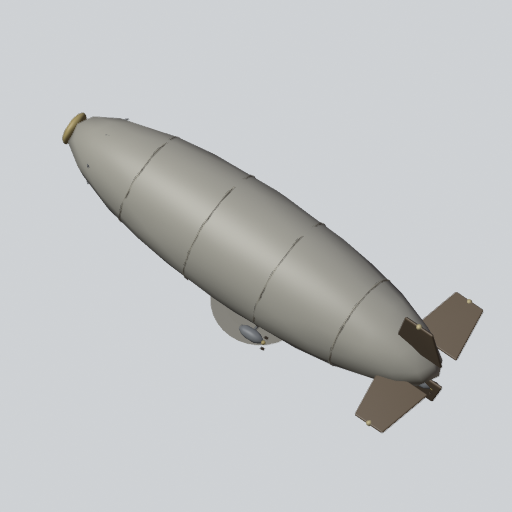
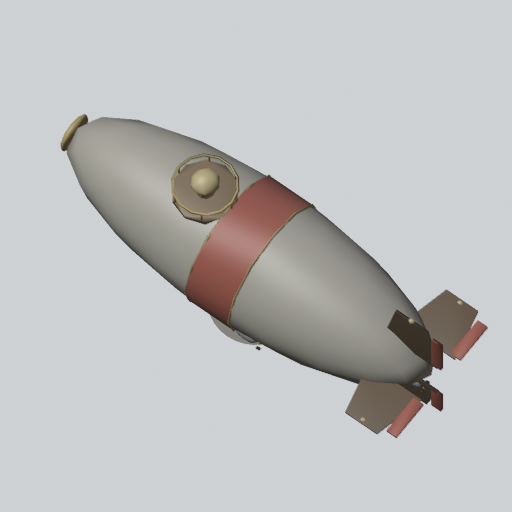
art: Spotter Blimp airborne (BLIMP_AIR) bolder upgrades - S1 fatter envelope, wide fins with striped rudders, painted band; S2 fatter still, second gondola, brass-railed lookout with a glowing beacon (#443)

diff --git a/tools/art/models/tower/_blimp_air.py b/tools/art/models/tower/_blimp_air.py
@@ -11,15 +11,19 @@ with the envelope's centre at y = YC, so Kit.finish's lowering puts the art orig
 Stage 0 (tiers 0-2): the envelope with seam bands and a nose cap, four fins, the gondola
                      (windows, struts), two engine pods with propellers, the door gun (the
                      muzzle) and the searchlight (piece `lamp`, ArtRole `lamp`).
-Stage 1 (tier 3):    an observation turret on the gondola roof, armour plates on the gondola,
-                     a radio aerial, sandbags on the gondola rail, a third engine at the tail.
-Stage 2 (tier 5):    brass nose cap, rail and propeller hubs, glowing gondola windows and
-                     glowing running lights on the fin tips.
+Stage 1 (tier 3):    a BIGGER ENVELOPE - fatter, with wider fins carrying striped rudders, a
+                     painted band round its middle, an observation turret on the gondola roof,
+                     armour plates, a third engine at the tail.
+Stage 2 (tier 5):    fatter still, with a SECOND GONDOLA aft (windows, struts), a brass-railed
+                     lookout on the envelope's back crowned by a glowing beacon, brass nose cap,
+                     bands and hubs, glowing windows and running lights on the fin tips.
 """
 
 import importlib.util
 import math
 from pathlib import Path
+
+import bmesh
 
 _spec = importlib.util.spec_from_file_location("_kit", Path(__file__).with_name("_kit.py"))
 K = importlib.util.module_from_spec(_spec)
@@ -37,6 +41,17 @@ LAMP = (255, 245, 200)
 GLOW = (255, 214, 120)
 
 
+def band(x0, x1, r, segments=20):
+    """An open painted tube round the envelope from x0 to x1 (no end caps, so it shades as one
+    smooth band), authored at the envelope's centre line."""
+    bm = bmesh.new()
+    bmesh.ops.create_cone(bm, cap_ends=False, segments=segments, radius1=r, radius2=r, depth=x1 - x0)
+    for v in bm.verts:  # create_cone runs along Z: lay it along X
+        v.co = (v.co.z + (x0 + x1) / 2, v.co.y + YC, v.co.x)
+    bmesh.ops.recalc_face_normals(bm, faces=bm.faces)
+    return K._obj(bm, "band")
+
+
 def p(x, y, z):
     return (x, YC + y, z)
 
@@ -44,15 +59,24 @@ def p(x, y, z):
 def build(lp, stage):
     k = K.Kit(lp)
     hot = stage >= 2
+    lean = stage >= 1
+    R = (2.5, 2.8, 3.0)[stage]  # the envelope's radius: the upgrades grow it
 
     # the envelope: one long ellipsoid, nose +X; seam bands round it; a nose cap
-    k.add("body", K.ell(p(0.25, 0, 0), (9.2, 2.5, 2.5), 24, 12, rot=(0, 0, 0)))
+    k.add("body", K.ell(p(0.25, 0, 0), (9.2, R, R), 20 if lean else 24, 10 if lean else 12, rot=(0, 0, 0)))
+
+    def env_r(x):
+        return R * math.sqrt(max(0.0, 1 - ((x - 0.25) / 9.2) ** 2)) + 0.01
     seams = []
-    for x in (-5.0, -1.5, 2.0, 5.5):
-        r = 2.5 * math.sqrt(max(0.0, 1 - ((x - 0.25) / 9.2) ** 2)) + 0.01
-        seams.append(K.ring_along(p(x, 0, 0), p(x + 1, 0, 0), r, 0.05, 18, 3))
-    k.add("seam", *seams)
-    k.add("brass" if hot else "steel", K.ell(p(9.3, 0, 0), (0.25, 0.75, 0.75), 10, 6), piece="nosecap")
+    for x in ((-5.0, -1.5, 2.0, 5.5) if not lean else (-5.0, 5.5) if not hot else ()):
+        seams.append(K.ring_along(p(x, 0, 0), p(x + 1, 0, 0), env_r(x), 0.05, 18 if not lean else 16, 3))
+    if seams:
+        k.add("seam", *seams)
+    if lean:  # a broad painted band round the middle (brass-edged at stage 2)
+        k.add("stripe", band(-0.85, 1.35, R + 0.04), piece="stripes")
+        if hot:
+            k.add("brass", *[K.ring_along(p(x, 0, 0), p(x + 1, 0, 0), R + 0.05, 0.07, 12, 3) for x in (-0.85, 1.35)])
+    k.add("brass" if hot else "steel", K.ell(p(9.3, 0, 0), (0.25, 0.75 * R / 2.5, 0.75 * R / 2.5), 10, 6), piece="nosecap")
     k.add("steel", *[K.rod(p(9.0, 0, 0), p(7.6, 1.55 * math.cos(a), 1.55 * math.sin(a)), 0.05, 4)
                      for a in (i * math.pi / 3 for i in range(6))])  # nose battens
 
@@ -61,21 +85,28 @@ def build(lp, stage):
     for ang in (0, 90, 180, 270):
         a = math.radians(ang)
         dy, dz = math.cos(a), math.sin(a)
-        base = 0.95
+        base = 0.95 + (R - 2.5) * 0.4
         span = 2.45 if ang != 180 else 1.8  # the bottom fin is shorter
+        if lean and ang in (90, 270):
+            span = 3.45 - base  # side fins reach the box's edge
+        elif lean and ang == 0:
+            span = 2.45 + (R - 2.5) * 0.6
         # the fin panel: a wedge from the root chord out to the tip chord
         cx = -7.95
         mid = p(cx, dy * (base + span * 0.5), dz * (base + span * 0.5))
         rot = (ang, 0, 0)
-        fins.append(K.rbox(mid, (2.3, span, 0.14), bevel=0.05, rot=rot, taper=(0.6, 1.0)))
+        fins.append(K.rbox(mid, (2.3 if not lean else 2.7, span, 0.14), bevel=0 if lean else 0.05, rot=rot, taper=(0.6, 1.0)))
+        if lean:  # a striped rudder on the fin's trailing edge
+            rmid = p(cx - 1.3, dy * (base + span * 0.45), dz * (base + span * 0.45))
+            k.add("stripe", K.rbox(rmid, (0.5, span * 0.8, 0.16), bevel=0, rot=rot), piece="rudders")
     k.add("fin", *fins)
 
     # the gondola under the envelope (buildBlimp: 4 x 1.4 x 1.8 at (0.5, -3.2, 0))
     gx, gy = 0.5, -3.2
     k.add("gondola", K.rbox(p(gx, gy, 0), (4.0, 1.3, 1.7), bevel=0.25, segments=2, taper=(0.92, 0.92)))
     k.add("gondola", K.ell(p(gx + 2.0, gy, 0), (0.45, 0.62, 0.82), 10, 6))  # rounded bow
-    win = [K.rbox(p(gx + x, gy + 0.2, sz * 0.84), (0.42, 0.34, 0.06), bevel=0.04) for x in (-1.2, -0.4, 0.4, 1.2) for sz in (-1, 1)]
-    win.append(K.rbox(p(gx + 2.38, gy + 0.2, 0), (0.06, 0.34, 0.9), bevel=0.04))
+    win = [K.rbox(p(gx + x, gy + 0.2, sz * 0.84), (0.42, 0.34, 0.06), bevel=0 if lean else 0.04) for x in (-1.2, -0.4, 0.4, 1.2) for sz in (-1, 1)]
+    win.append(K.rbox(p(gx + 2.38, gy + 0.2, 0), (0.06, 0.34, 0.9), bevel=0 if lean else 0.04))
     k.add("glow" if hot else "window", *win, piece="windows")
     k.add("steel", *[K.rod(p(gx + x, gy + 0.6, sz * 0.6), p(gx + x * 0.9, -2.15, sz * 0.9), 0.05, 4) for x in (-1.4, 1.4) for sz in (-1, 1)])
     k.add("brass" if hot else "steel", K.rbox(p(gx, gy + 0.68, 0), (4.1, 0.08, 1.8), bevel=0.03), piece="rail")
@@ -88,9 +119,9 @@ def build(lp, stage):
     for x, y, z in pods:
         if z:
             k.add("steel", K.rod(p(x, y, z * 0.45), p(x, y, z), 0.06, 4))
-        k.add("pod", K.ell(p(x, y, z), (0.6, 0.26, 0.26), 10, 5))
+        k.add("pod", K.ell(p(x, y, z), (0.6, 0.26, 0.26), 8 if lean else 10, 4 if lean else 5))
         hubs.append(K.ell(p(x - 0.62, y, z), (0.1, 0.1, 0.1), 6, 4))
-        props += [K.rbox(p(x - 0.66, y + math.cos(a) * 0.32, z + math.sin(a) * 0.32), (0.04, 0.6, 0.12), bevel=0.02, rot=(math.degrees(-a), 0, 0))
+        props += [K.rbox(p(x - 0.66, y + math.cos(a) * 0.32, z + math.sin(a) * 0.32), (0.04, 0.6, 0.12), bevel=0 if lean else 0.02, rot=(math.degrees(-a), 0, 0))
                   for a in (0.4, 0.4 + math.pi)]
     k.add("brass" if hot else "steel", *hubs, piece="hubs")
     k.add("fin", *props)
@@ -105,26 +136,39 @@ def build(lp, stage):
 
     brass = []
     if stage >= 1:
-        # an observation turret on the gondola roof's front, a radio aerial, armour plates, sandbags
-        k.add("gondola", K.cyl(p(gx + 1.2, gy + 0.85, 0), 0.38, 0.32, 10, bevel=0.05))
+        # an observation turret on the gondola roof's front, armour plates
+        k.add("gondola", K.cyl(p(gx + 1.2, gy + 0.85, 0), 0.38, 0.32, 10, bevel=0))
         k.add("steel", K.rod(p(gx + 1.2, gy + 0.95, 0), p(gx + 1.85, gy + 1.0, 0), 0.05, 6))
-        k.add("steel", K.rod(p(gx - 1.4, gy + 0.7, 0.3), p(gx - 1.4, -1.4, 0.95), 0.02, 4))
-        k.add("plate", *[K.rbox(p(gx + x, gy - 0.32, sz * 0.86), (0.85, 0.42, 0.06), bevel=0.02) for x in (-1.0, 0.0, 1.0) for sz in (-1, 1)])
-        k.add("dark", *[K.ell(p(gx + x + dx, gy - 0.32, sz * 0.9), (0.03, 0.03, 0.02), 4, 3) for x in (-1.0, 0.0, 1.0) for dx in (-0.3, 0.3) for sz in (-1, 1)])
-        k.add("sand", *[K.pillow(p(gx + x, gy + 0.85, sz * 0.6), 0.5, 0.0, h=0.2, w=0.3) for x in (-1.3, -0.6) for sz in (-1, 1)])
+        k.add("plate", *[K.rbox(p(gx + x, gy - 0.32, sz * 0.86), (0.85, 0.42, 0.06), bevel=0) for x in (-1.0, 0.0, 1.0) for sz in (-1, 1)])
 
     if hot:
+        # the second gondola aft, slung on struts, its windows glowing
+        ax, ay = -4.4, -2.75
+        k.add("gondola", K.rbox(p(ax, ay, 0), (2.4, 0.95, 1.3), bevel=0.12, taper=(0.9, 0.9)))
+        k.add("glow", *[K.rbox(p(ax + x, ay + 0.12, sz * 0.66), (0.4, 0.28, 0.05), bevel=0) for x in (-0.6, 0.1, 0.8) for sz in (-1, 1)],
+              piece="windows2")
+        k.add("steel", *[K.rod(p(ax + x, ay + 0.45, sz * 0.45), p(ax + x * 0.9, -2.0, sz * 0.7), 0.05, 4) for x in (-0.8, 0.8) for sz in (-1, 1)])
+        brass.append(K.rbox(p(ax, ay + 0.5, 0), (2.5, 0.07, 1.4), bevel=0))
+        # the crown: a brass-railed lookout on the envelope's back with a glowing beacon
+        tx, ty = 2.6, R * math.sqrt(1 - ((2.6 - 0.25) / 9.2) ** 2) - 0.15
+        k.add("gondola", K.cyl(p(tx, ty + 0.12, 0), 1.4, 0.3, 10, bevel=0))
+        brass += [K.ring(p(tx, ty + 0.8, 0), 1.35, 0.07, 14, 3)]
+        brass += [K.rod(p(tx + math.cos(a) * 1.35, ty + 0.25, math.sin(a) * 1.35), p(tx + math.cos(a) * 1.35, ty + 0.8, math.sin(a) * 1.35), 0.05, 4)
+                  for a in (i * math.pi / 3 for i in range(6))]
+        brass.append(K.cyl(p(tx, ty + 0.55, 0), 0.4, 0.55, 8, bevel=0, top=0.8))
+        k.add("glow", K.ell(p(tx, ty + 1.08, 0), (0.62, 0.5, 0.62), 10, 5), piece="beacon")
+        # running lights on the fin tips
         lights = []
-        for ang in (0, 90, 270):
+        base = 0.95 + (R - 2.5) * 0.4
+        for ang, tip in ((0, base + 2.45 + (R - 2.5) * 0.6), (90, 3.3), (270, 3.3)):
             a = math.radians(ang)
-            lights.append(K.ell(p(-7.95, math.cos(a) * 3.34, math.sin(a) * 3.34), (0.13, 0.13, 0.13), 6, 4))
+            lights.append(K.ell(p(-7.95, math.cos(a) * tip, math.sin(a) * tip), (0.16, 0.16, 0.12), 6, 3))
         k.add("glow", *lights, piece="lights")
-        brass.append(K.ring_along(p(-1.0, -3.95, 0), p(-1.0, -4.95, 0), 0.4, 0.04, 12, 3))
         k.add("brass", *brass)
 
     colors = {
         "body": CANVAS, "seam": SEAM, "fin": FIN, "gondola": GONDOLA, "window": (40, 46, 52), "steel": STEEL,
         "pod": (96, 100, 106), "dark": K.DARK, "plate": (112, 118, 124), "sand": K.SAND, "lamp": LAMP,
-        "brass": K.BRASS, "glow": GLOW,
+        "brass": K.BRASS, "glow": GLOW, "stripe": (176, 58, 44),
     }
     return k.model("11d", colors, "BLIMP_AIR", stage)
